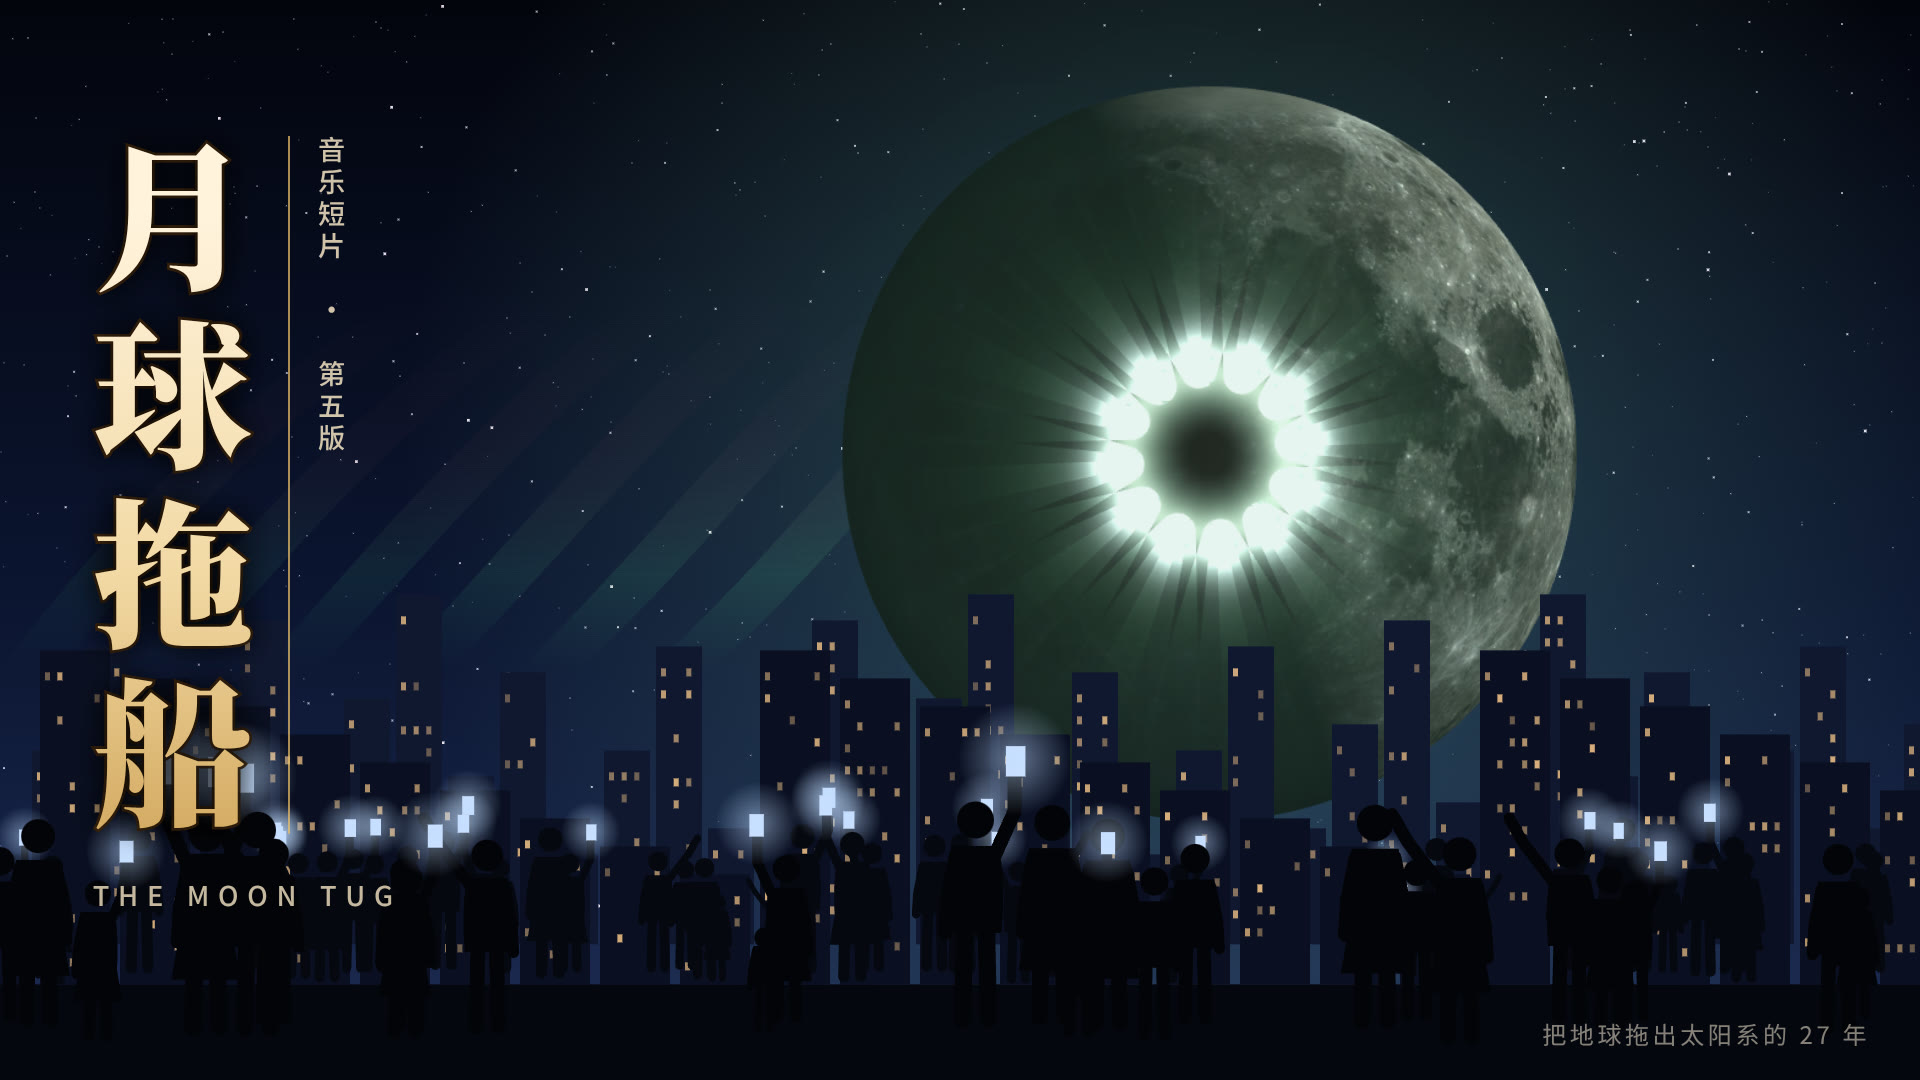
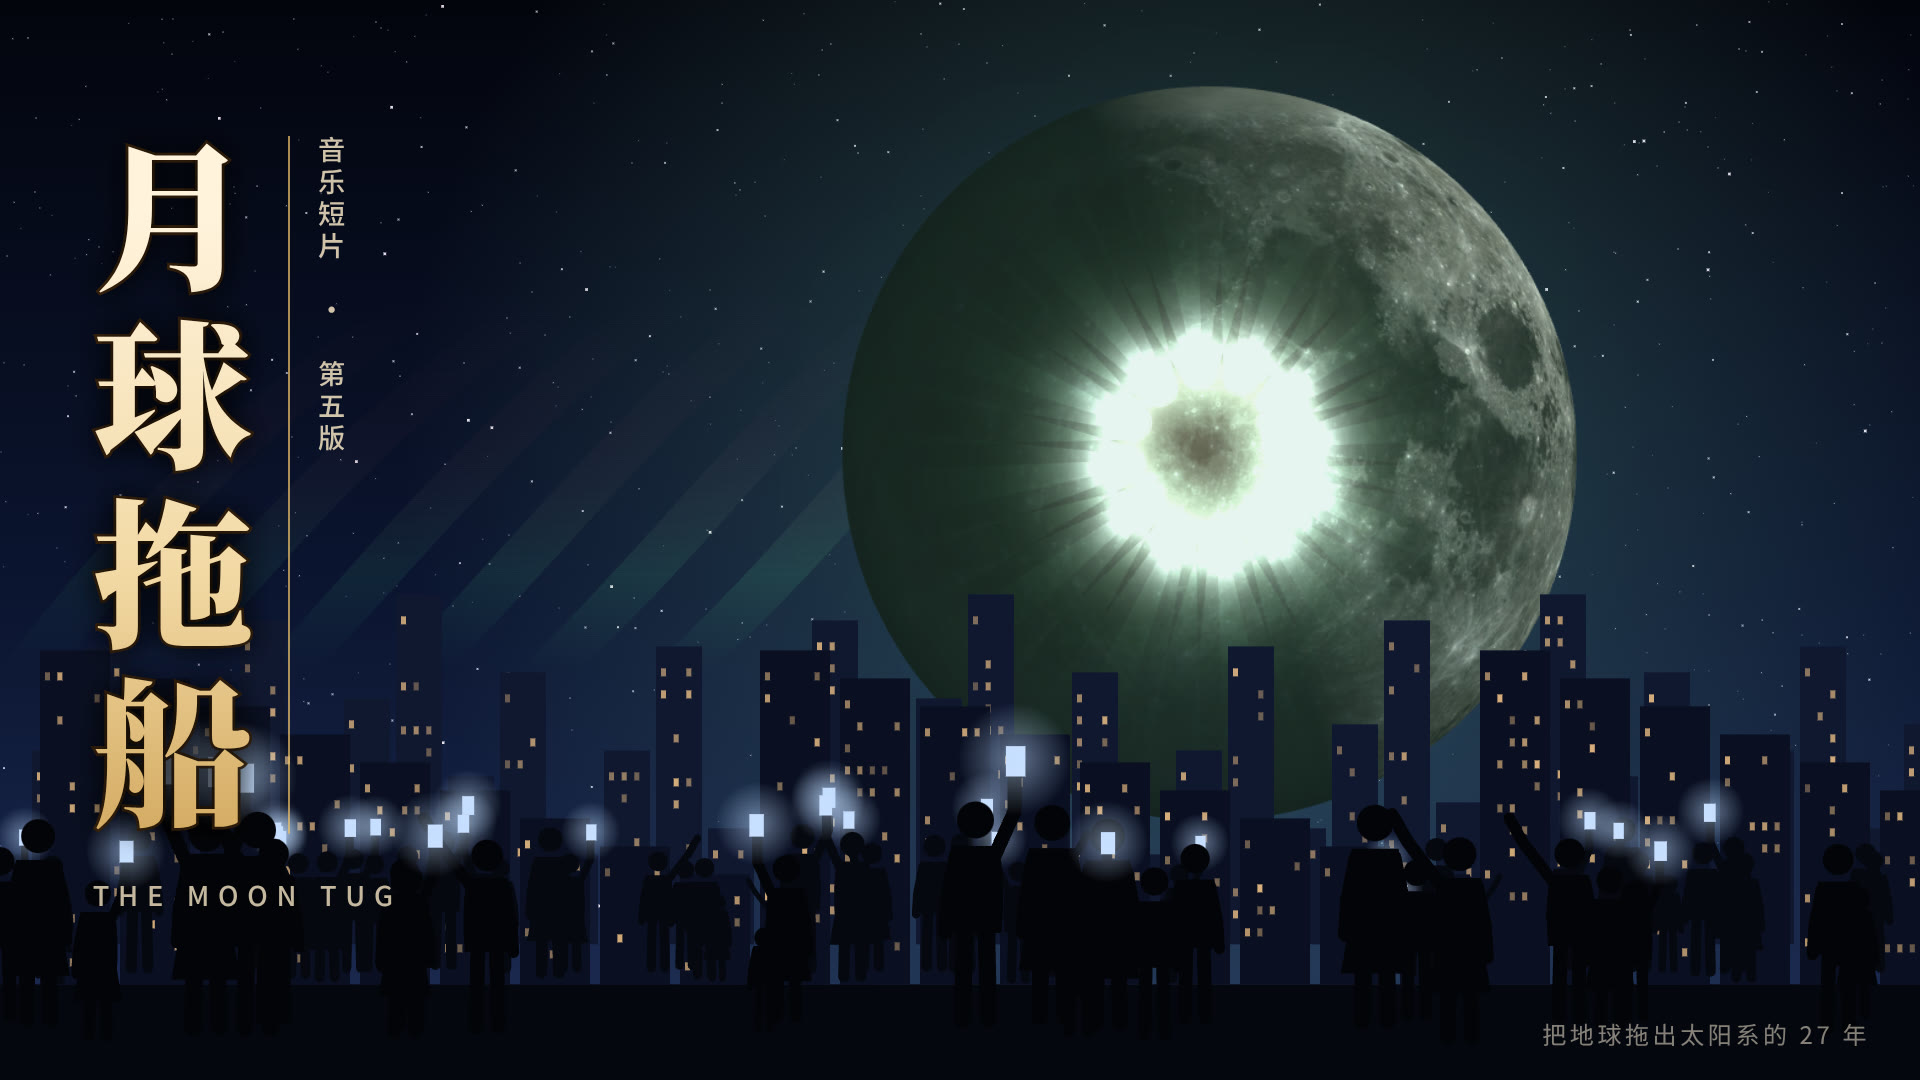
月球拖船：喷流正视修正（深度裁剪、月面照明、喷口亮雾），封面更新
Claude-Session: https://claude.ai/code/session_01UWiKFUqH9eBq3c7P4iHjSP

Changed region(s): [[0.5312, 0.275, 0.7188, 0.5806]]

diff --git a/site/moon-tug/moon3.js b/site/moon-tug/moon3.js
@@ -10,8 +10,8 @@ window.MOON3 = (() => {
     void main(){ vec3 c = pow(texture2D(map, vUv).rgb, vec3(2.2)); vec3 n = normalize(vN);
       float mu = max(0., dot(n, sun)); vec3 col = c * (mu * 1.35 + .35 * mu / (mu + .6)) * sunI;           // 太阳：朗伯 + 一点 Lommel-Seeliger
       col += c * vec3(.6, .75, 1.) * max(0., dot(n, earthDir)) * earthA;                                        // 地照
-      vec3 pl = vec3(0.); for (int k = 0; k < ${NJ}; k++) { vec3 d = spots[k] - vP; float dd = dot(d, d) / (R * R); pl += max(0., dot(n, normalize(d))) / (dd * 14. + .35); }
-      col += c * vec3(.55, .9, .95) * pl * eng * .06;                                                           // 喷流照亮月面
+      vec3 pl = vec3(0.); for (int k = 0; k < ${NJ}; k++) { vec3 d = spots[k] - vP; float dd = dot(d, d) / (R * R); pl += max(0., dot(n, normalize(d))) / (dd * 5. + .25); }
+      col += c * vec3(.7, .95, .9) * pl * eng * .22;                                                           // 喷流照亮月面
       float nz = max(0., dot(n, earthDir)); col += vec3(.9, .22, .04) * pow(nz, 7.) * hot * .1 + vec3(.6, .12, .02) * pl * hot * .04;                 // 发动机一侧烧红的月面
       gl_FragColor = vec4(col, 1.); }`;
   const PLUME_VS = `attribute float s; varying float vS; varying vec3 vN; varying vec3 vV; void main(){ vS = s; vec4 w = modelMatrix * vec4(position, 1.); vN = normalize((modelMatrix * vec4(normal, 0.)).xyz); vV = normalize(cameraPosition - w.xyz); gl_Position = projectionMatrix * viewMatrix * w; }`;
@@ -23,14 +23,14 @@ window.MOON3 = (() => {
       vec3 col = mix(vec3(.9, .95, 1.), vec3(.45, 1., .62), smoothstep(.25, 1.2, d)); col = mix(col, vec3(1., .42, .4), smoothstep(2.5, 7., d));
       float I = clamp(dens * e * k, 0., 1.);
       gl_FragColor = vec4(col * I, I); }`;
-  const SPOT_FS = `uniform float k; varying vec2 vUv; varying vec3 vN; varying vec3 vP; void main(){ float r = length(vUv - .5) * 2.; float a = (pow(max(0., 1. - r), 3.5) + .35 * pow(max(0., 1. - r), 1.2)) * k; gl_FragColor = vec4(mix(vec3(.75, 1., .85), vec3(1., .98, .95), pow(max(0., 1. - r), 2.)) * a * 1.4, a); }`;
+  const SPOT_FS = `uniform float k; varying vec2 vUv; varying vec3 vN; varying vec3 vP; void main(){ float r = length(vUv - .5) * 2.; float a = (pow(max(0., 1. - r), 3.5) + .35 * pow(max(0., 1. - r), 1.2)) * k; gl_FragColor = vec4(mix(vec3(.75, 1., .85), vec3(1., .98, .95), pow(max(0., 1. - r), 2.)) * a * 1.0, a); }`;
   function engines() { const out = []; for (let i = 0; i < NJ; i++) { const ph = i / NJ * Math.PI * 2 + .13; out.push(new THREE.Vector3(Math.sin(CANT) * Math.cos(ph), Math.sin(CANT) * Math.sin(ph), Math.cos(CANT))); } return out; }
   // 在 group 里搭月球：+z 朝向地球
   function build(THREE, R, tex) {
     const g = new THREE.Group(), dirs = engines();
-    const mat = new THREE.ShaderMaterial({ uniforms: { map: { value: tex }, sun: { value: new THREE.Vector3(1, 0, 0) }, earthDir: { value: new THREE.Vector3(0, 0, 1) }, center: { value: new THREE.Vector3() }, sunI: { value: 1 }, earthA: { value: .05 }, eng: { value: 0 }, hot: { value: 0 }, R: { value: R }, spots: { value: dirs.map(d => d.clone().multiplyScalar(R)) } }, vertexShader: VS, fragmentShader: MOON_FS });
+    const mat = new THREE.ShaderMaterial({ uniforms: { map: { value: tex }, sun: { value: new THREE.Vector3(1, 0, 0) }, earthDir: { value: new THREE.Vector3(0, 0, 1) }, center: { value: new THREE.Vector3() }, sunI: { value: 1 }, earthA: { value: .05 }, eng: { value: 0 }, hot: { value: 0 }, R: { value: R }, spots: { value: dirs.map(d => d.clone().multiplyScalar(R * 1.2)) } }, vertexShader: VS, fragmentShader: MOON_FS });
     const moon = new THREE.Mesh(new THREE.SphereGeometry(R, 160, 120), mat); moon.rotation.y = -Math.PI / 2; g.add(moon);
-    const plumes = [], spots = [];
+    const plumes = [], spots = [], bells = [];
     dirs.forEach((d, i) => {
       const L = LEN_R * R, r0 = R * .05, geo = new THREE.CylinderGeometry(r0 + L * Math.tan(PLUME), r0, L, 36, 24, true); geo.translate(0, L / 2, 0);
       const pos = geo.attributes.position, sArr = new Float32Array(pos.count); for (let v = 0; v < pos.count; v++) sArr[v] = pos.getY(v) / L; geo.setAttribute('s', new THREE.BufferAttribute(sArr, 1));
@@ -41,20 +41,23 @@ window.MOON3 = (() => {
         const pm = new THREE.ShaderMaterial({ transparent: true, depthWrite: false, blending: THREE.CustomBlending, blendSrc: THREE.OneFactor, blendDst: THREE.OneFactor, blendEquation: THREE.AddEquation, side: THREE.DoubleSide, uniforms: { k: { value: 0 }, t: { value: 0 }, seed: { value: i * 1.7 } }, vertexShader: PLUME_VS, fragmentShader: PLUME_FS });
         pm.userData.ks = ks; const mm = new THREE.Mesh(gg, pm); mm.position.copy(d).multiplyScalar(R * 1.06); mm.quaternion.setFromUnitVectors(new THREE.Vector3(0, 1, 0), d); g.add(mm); plumes.push(pm); if (!m) m = mm; });
       // 喷口：一个小碗 + 发光片
-      const bell = new THREE.Mesh(new THREE.CylinderGeometry(R * .05, R * .028, R * .06, 24, 1, true), new THREE.MeshStandardMaterial({ color: 0x3a3a40, roughness: .9, metalness: .1, side: THREE.DoubleSide })); bell.position.copy(d).multiplyScalar(R * 1.03); bell.quaternion.copy(m.quaternion); g.add(bell);
+      const bell = new THREE.Mesh(new THREE.CylinderGeometry(R * .05, R * .028, R * .06, 24, 1, true), new THREE.MeshBasicMaterial({ color: 0xdfffea, side: THREE.DoubleSide })); bell.position.copy(d).multiplyScalar(R * 1.0); bell.quaternion.copy(m.quaternion); g.add(bell); bells.push(bell);
       const sm = new THREE.ShaderMaterial({ transparent: true, depthWrite: false, depthTest: false, side: THREE.DoubleSide, blending: THREE.CustomBlending, blendSrc: THREE.OneFactor, blendDst: THREE.OneFactor, blendEquation: THREE.AddEquation, uniforms: { k: { value: 0 } }, vertexShader: VS, fragmentShader: SPOT_FS });   // 喷口上方最密的一段等离子体：顺着轴线看是整幅画面里最亮的点
       const sp = new THREE.Mesh(new THREE.PlaneGeometry(R * .36, R * .36), sm); sp.renderOrder = 5; sp.position.copy(d).multiplyScalar(R * 1.06); sp.quaternion.copy(m.quaternion); sp.rotateX(-Math.PI / 2); g.add(sp); spots.push(sm); });
+    const HAZE_FS = `uniform float k; varying vec2 vUv; varying vec3 vN; varying vec3 vP; void main(){ float r = length(vUv - .5) * 2.; float ring = exp(-pow((r - .42) / .3, 2.)); float a = (ring * .9 + .35 * pow(max(0., 1. - r), 1.5)) * k; gl_FragColor = vec4(vec3(.8, 1., .9) * a * .4, a * .4); }`;
+    const hm = new THREE.ShaderMaterial({ transparent: true, depthWrite: false, side: THREE.DoubleSide, blending: THREE.CustomBlending, blendSrc: THREE.OneFactor, blendDst: THREE.OneFactor, blendEquation: THREE.AddEquation, uniforms: { k: { value: 0 } }, vertexShader: VS, fragmentShader: HAZE_FS });
+    const haze = new THREE.Mesh(new THREE.PlaneGeometry(R * 1.1, R * 1.1), hm); haze.position.set(0, 0, R * 1.1); haze.renderOrder = 4; g.add(haze);
     const inv = new THREE.Quaternion(), tmp = new THREE.Vector3();
     const set = o => {
       if (o.sunWorld) { inv.copy(g.quaternion).invert(); mat.uniforms.sun.value.copy(o.sunWorld).normalize(); }
       if (o.sunI !== undefined) mat.uniforms.sunI.value = o.sunI;
       if (o.earthA !== undefined) mat.uniforms.earthA.value = o.earthA;
       if (o.hot !== undefined) mat.uniforms.hot.value = o.hot;
-      if (o.eng !== undefined) { mat.uniforms.eng.value = typeof o.eng === 'function' ? 1 : o.eng; plumes.forEach((p, j) => { const i = Math.floor(j / 3), k = typeof o.eng === 'function' ? o.eng(i) : o.eng; p.uniforms.k.value = k * p.userData.ks; }); spots.forEach((sm, i) => sm.uniforms.k.value = Math.min(1, typeof o.eng === 'function' ? o.eng(i) : o.eng)); }
+      if (o.eng !== undefined) { mat.uniforms.eng.value = typeof o.eng === 'function' ? 1 : o.eng; plumes.forEach((p, j) => { const i = Math.floor(j / 3), k = typeof o.eng === 'function' ? o.eng(i) : o.eng; p.uniforms.k.value = k * p.userData.ks; }); spots.forEach((sm, i) => sm.uniforms.k.value = Math.min(1, typeof o.eng === 'function' ? o.eng(i) : o.eng)); bells.forEach((b, i) => { const k = Math.min(1, typeof o.eng === 'function' ? o.eng(i) : o.eng); b.material.color.setRGB(.1 + .77 * k, .1 + .9 * k, .11 + .81 * k); }); hm.uniforms.k.value = Math.min(1, typeof o.eng === 'function' ? (o.eng(0) + o.eng(6)) / 2 : o.eng); }
       if (o.t !== undefined) plumes.forEach(p => p.uniforms.t.value = o.t);
       // 世界坐标下的喷口位置与地球方向
       g.updateMatrixWorld(true); mat.uniforms.earthDir.value.set(0, 0, 1).applyQuaternion(g.getWorldQuaternion(new THREE.Quaternion())); mat.uniforms.center.value.copy(g.getWorldPosition(tmp));
-      dirs.forEach((d, i) => mat.uniforms.spots.value[i].copy(d).multiplyScalar(R).applyMatrix4(g.matrixWorld));
+      dirs.forEach((d, i) => mat.uniforms.spots.value[i].copy(d).multiplyScalar(R * 1.2).applyMatrix4(g.matrixWorld));
     };
     return { group: g, set, moon };
   }
@@ -72,13 +75,13 @@ window.MOON3 = (() => {
     const sun = new THREE.Vector3(Math.sin(i) * Math.cos(sa), -Math.sin(i) * Math.sin(sa), Math.cos(i));
     M.set({ sunWorld: sun, sunI: o.sunI ?? 1, earthA: o.earthA ?? .05, hot: o.hot ?? 0, eng: o.eng ?? 0, t: o.t ?? 0 });
     S.userData.dl.position.copy(sun).multiplyScalar(10);
-    if (o.view) { cam.position.set(...o.view.pos); cam.fov = o.view.fov || 40; cam.up.set(...(o.view.up || [0, 1, 0])); cam.lookAt(...(o.view.look || [0, 0, 0])); }
-    else { cam.up.set(0, 1, 0); const D = 400; cam.position.set(0, 0, D); cam.fov = 2 * Math.atan(540 / rpx / D) * 180 / Math.PI; cam.lookAt(0, 0, 0); }
+    if (o.view) { cam.near = .1; cam.far = 2000; cam.position.set(...o.view.pos); cam.fov = o.view.fov || 40; cam.up.set(...(o.view.up || [0, 1, 0])); cam.lookAt(...(o.view.look || [0, 0, 0])); }
+    else { cam.up.set(0, 1, 0); const D = 400; cam.position.set(0, 0, D); cam.fov = 2 * Math.atan(540 / rpx / D) * 180 / Math.PI; cam.lookAt(0, 0, 0); cam.near = D - 20; cam.far = D + 20; }   // 近远裁剪面收紧，否则喷口附近的贴片和月面会深度打架
     cam.updateProjectionMatrix();
     SR.setClearColor(0x000000, 0); SR.render(S, cam); SR.setClearColor(0x000000, 1);
     return SR.domElement;
   }
   // 把方向/点投影到最近一次渲染的画面上（像素，1920×1080）
   function project(p) { const v = new THREE.Vector3(...p).project(cam); return [(v.x + 1) / 2 * 1920, (1 - v.y) / 2 * 1080, v.z]; }
-  return { build, initSprite, render, project, engines, CANT, PLUME, NJ, LEN_R };
+  return { build, initSprite, render, project, engines, CANT, PLUME, NJ, LEN_R, get _M() { return M; } };
 })();
